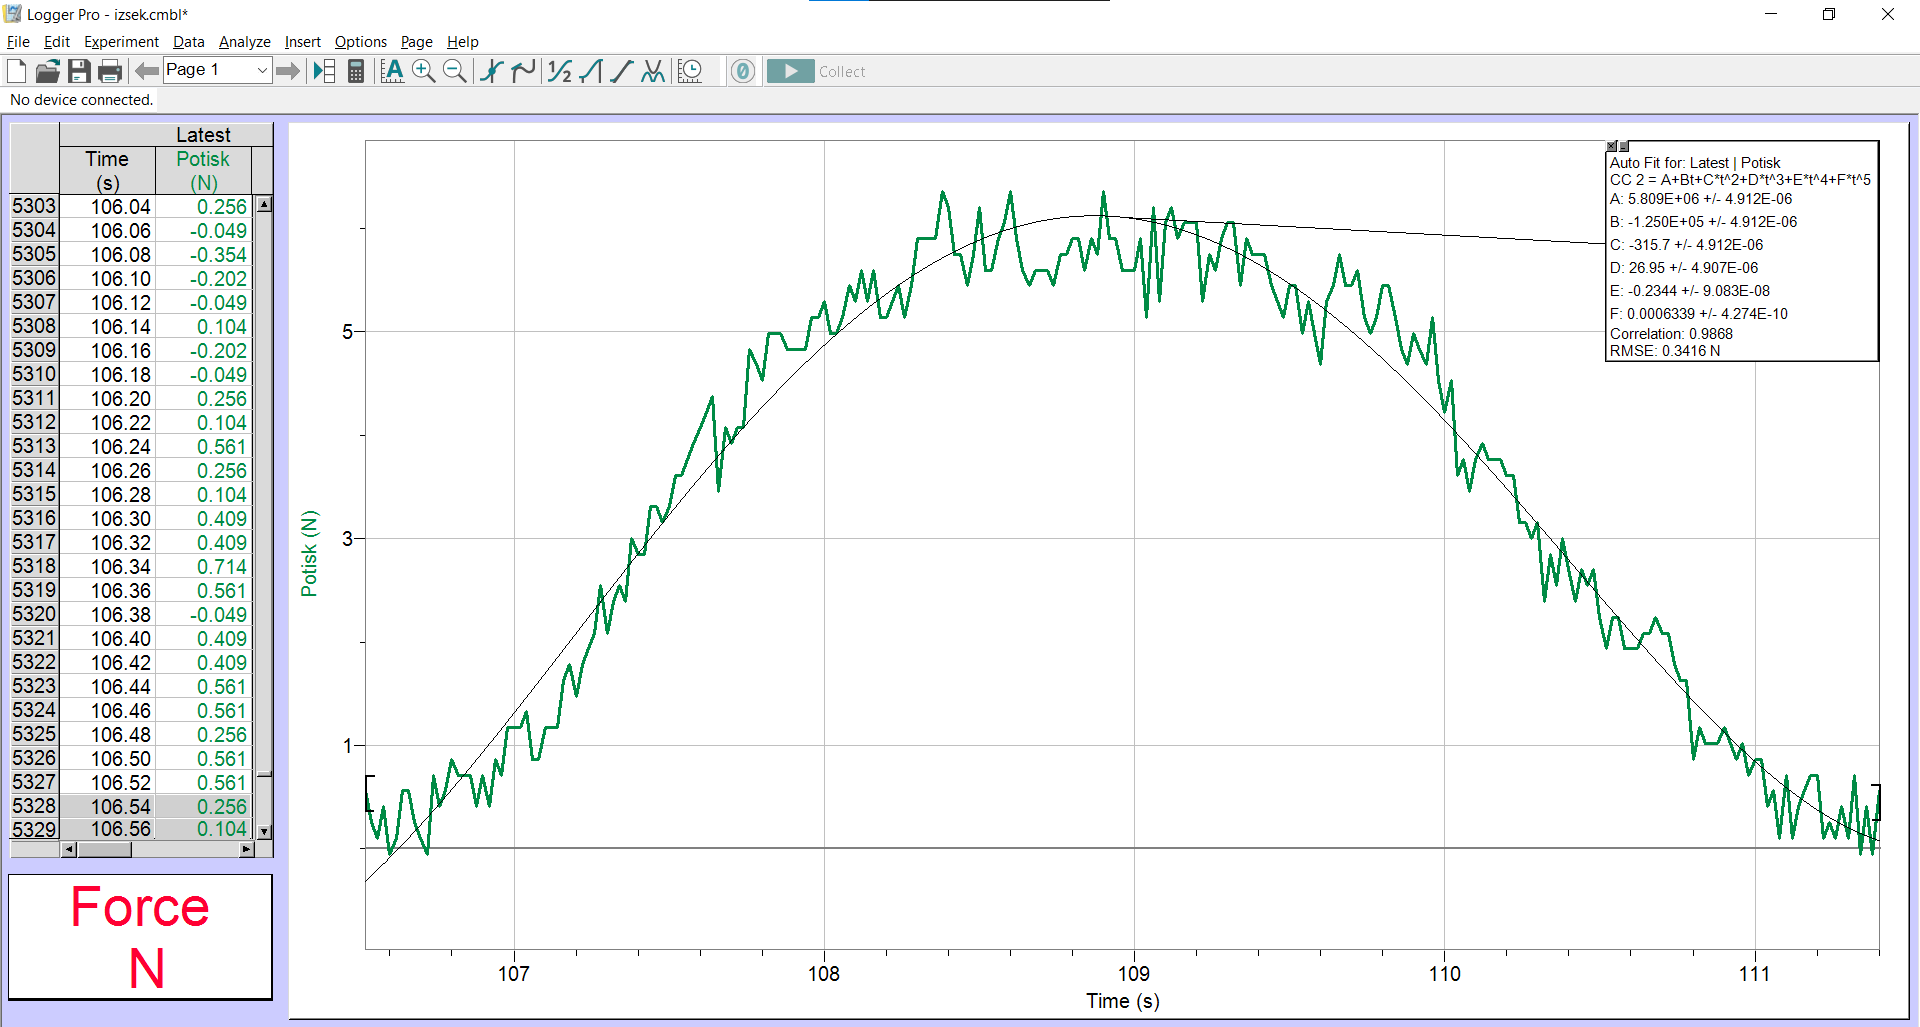
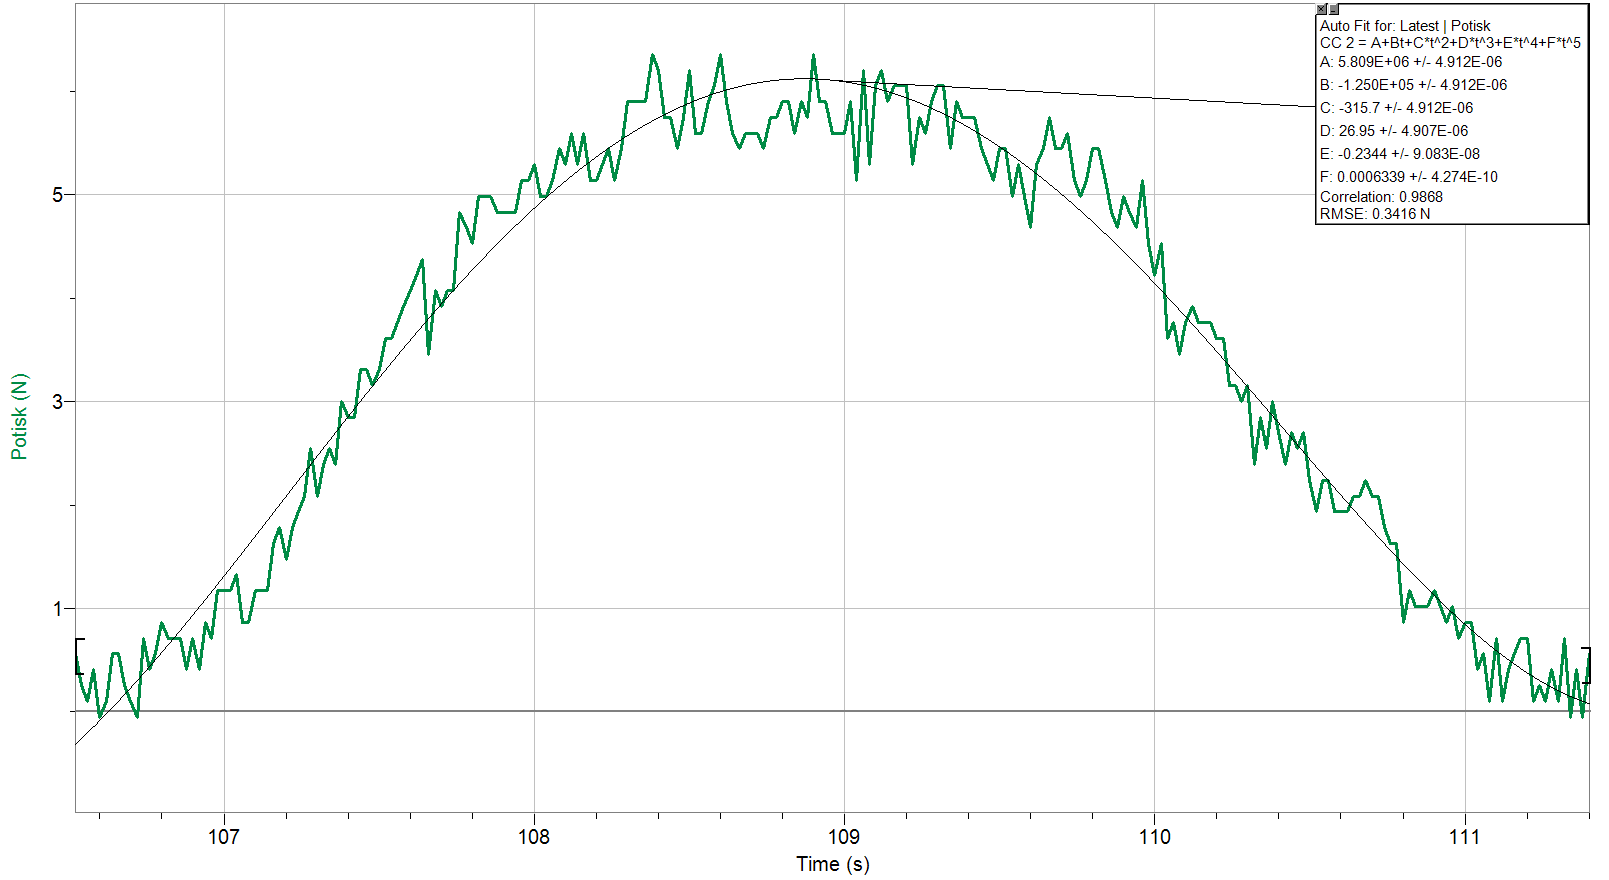
Manjši popravki

diff --git a/raziskovalna_naloga/EIRMNTG.tex b/raziskovalna_naloga/EIRMNTG.tex
@@ -490,8 +490,8 @@
 		S programom openMotor sva si pomagala tudi izbrati količino goriva (\SI{75}{g}), ki sva jo nato uporabila v vseh statičnih testih motorja.
 		Že v teoretičnem delu sva omenila profil KNSU, ki obstaja v openMotorju in je po sestavi primerljiv najinemu gorivu.
 		Premer luknje v gorivu sva nastavila na \SI{15}{mm}, dolžino \SI{70}{mm} pa sva dobila tako, da sva jo spreminjala, dokler nisva dobila primerne mase (\SI{75}{g}) in tlaka znotraj omejitev cevi.
-		Premer grla šobe sva določila kot \SI{10}{mm}, ker sva želela ohraniti nizek tlak. %TODO dodaj vrednost tlaka iz simulacije
-		Kot se jasno vidi iz slike X, naj bi motor proizvedel do približno \SI{100}{N} potiska in samo gorenje naj bi trajalo okoli XX s. %TODO slika openMotorja in odčitanje časa gorenja
+		Premer grla šobe sva določila kot \SI{10}{mm}, ker sva želela ohraniti nizek tlak. Iz simulacije sva dobila podatke o maksimalnem tlaku, ki je \SI{1,11}{MPa}.
+		Kot se jasno vidi iz slike X, naj bi motor proizvedel do približno \SI{100}{N} potiska in samo gorenje naj bi trajalo okoli \SI{1,11}{s}.
 		
 
 		\subsection{Gorivo} \label{gorivo}
@@ -620,13 +620,14 @@
 		Tako sestavljen motor je po strjevanju smole pripravljen na testiranje. Paziti pa moramo da ni predolgo izpostavljen kakršnikoli vlagi,
 		saj to močno vpliva na hitrost gorenja in izkoristek.
 
-		\begin{figure}[H]
+		\begin{figure}
 		\centering
 		\includegraphics[scale=.3]{QFau_oznacen_final}
 		\caption{Shema motorja} \label{shema_motorja}
 		\end{figure}
 
 		
+			\FloatBarrier
 		\subsection{Merjenje potiska}
 		Za merjenje potiska sva uporabila Vernierjev Force Plate, katerega natančnost je \SI{0,3}{N} na intervalu \SI{-85}{N} do \SI{850}{N} ali \SI{1}{N} na intervalu \SI{-350}{N} do \SI{3500}{N}.
 		Ker najini motorji ne proizvedejo več kakor 850N potiska sva lahko merila z natančnostjo \SI{0,3}{N}. Za držanje motorja sta nama hišnika Gimnazije Vič po najinem načrtu
@@ -727,7 +728,7 @@
 			Gorivne celice in motor sam sva začela tudi shranjevati v nepredušno zatesnjenih posodah v prisotnosti prej omenjenega silika gela.
 			Gorivno celico tretjega testa žal nisva takoj po ulitju dala v dehidrator, kot sva kasnejše celice, sva pa jo kasneje dala k ostalim celicam v dehidrator.
 			Ta je bila zaradi nepremišljenosti iz najine strani že vstavljene v cev in se je zato na zadnji strani slabše posušila, kar bi lahko pripomoglo k odklonu
-			izmerjenih podatkov od začetne simulacije. Tretji test je bil za razliko od prvega in drugega delno uspešen. Izmerila sva krivuljo potiska, ki je vidna na sliki X. %TODO dodaj sliko originalne krivulje
+			izmerjenih podatkov od začetne simulacije. Tretji test je bil za razliko od prvega in drugega delno uspešen. Izmerila sva krivuljo potiska, ki je vidna na sliki \ref{setup_anotiran}.
 			Temperatura površine zunanje cevi je tudi pri tem motorju bila zmerna, kar dokončno potrdi izolativne sposobnosti papirja kot izolator v raketnem motorju.
 			Večina papirja, kot je vidno na sliki X, kjer sva motor iz tretjega testa prerezala po dolžini za analizo, je preživelo visok tlak in temperaturo ekstremnih pogojev v raketnem motorju in s tem opravilo svojo nalogo z odliko. %TODO dodaj sliko prerezanega motorja
 			Iz prerezanega motorja sva izmerila tudi končni premer grla šobe, ki je \SI{15}{mm}. To je kar \SI{5}{mm} več od začetnega premera, kar nakazuje na močno erozijo šobe in relativno slabo vzdržljivost šob iz mavca.
@@ -787,7 +788,6 @@
 		\end{figure}
 
 
-		\FloatBarrier
 		\subsubsection{Prilagajanje simulacije}
 		Izkazalo se je, da je motor tretjega testa proizvedel drugačno kriuljo potiska, kot sva jo pričakovala.
 		Največji doseženi potisk je manjši in čas gorenja je daljši. Tako impulz kot tudi specifični impulz sta manjša od pričakovanih vrednosti.
@@ -814,6 +814,8 @@
 		\end{figure}
 
 		
+	\FloatBarrier
+
 	\section{Rezultati}
 
 	\section{Razprava}
